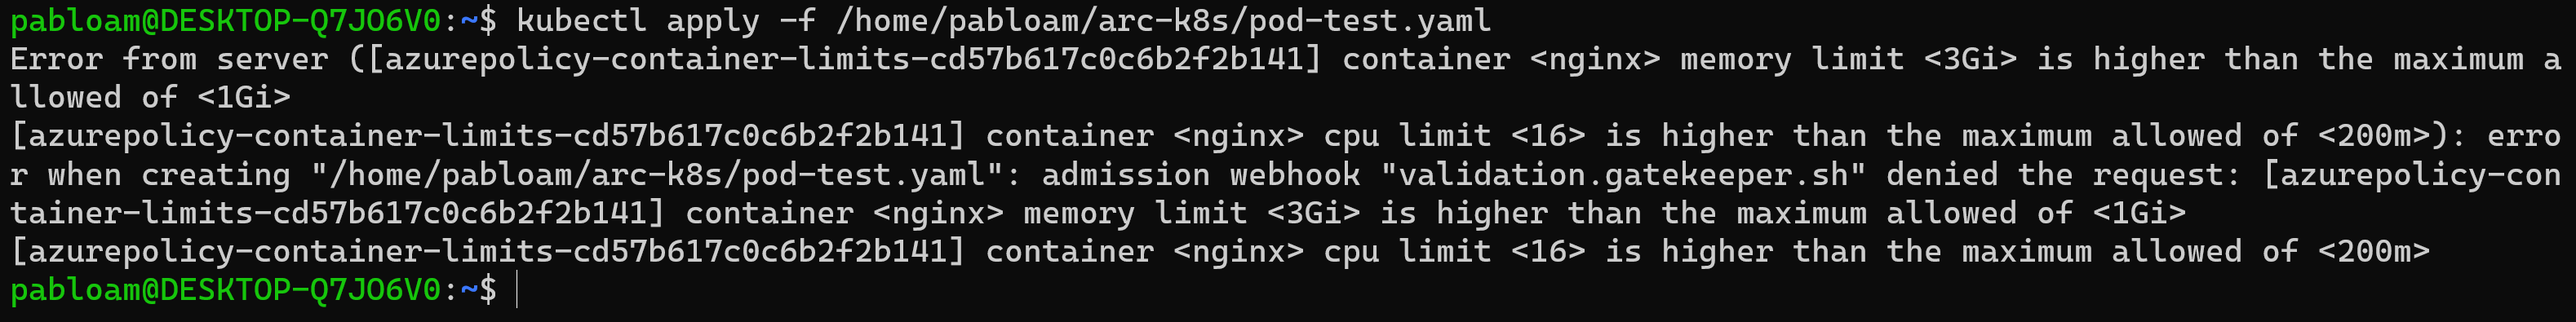
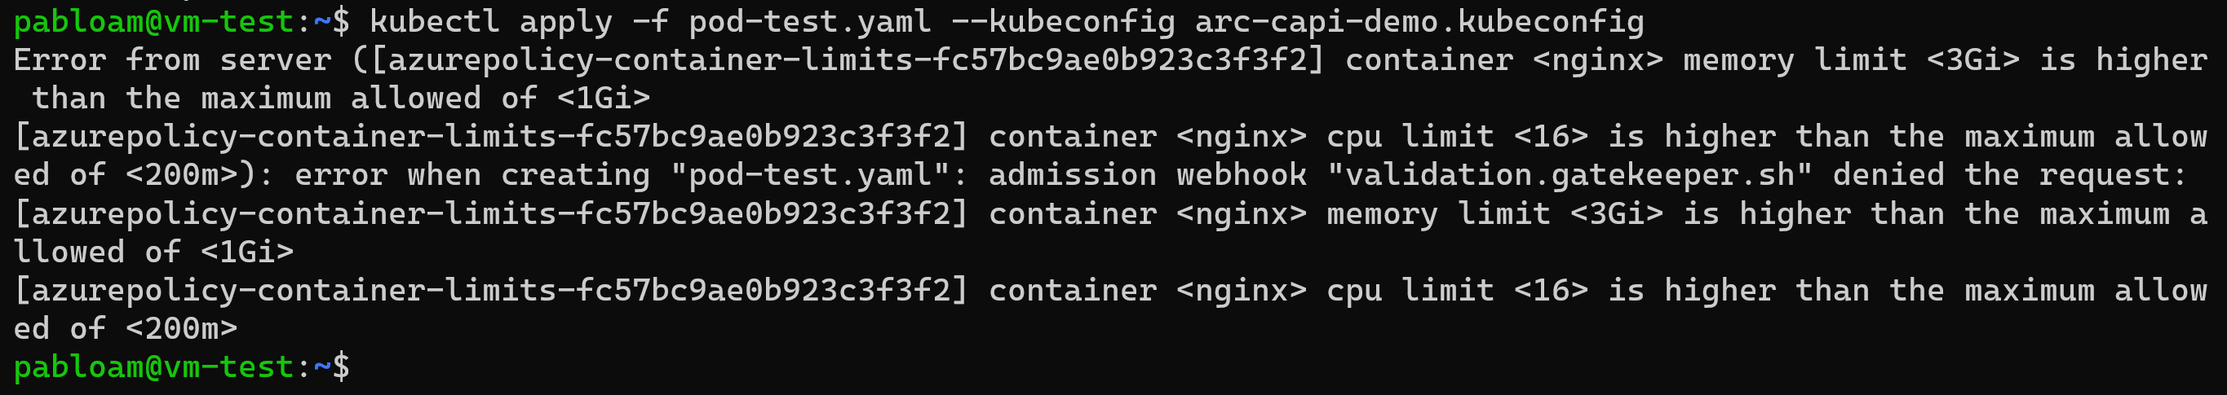
Update index

Changed region(s): [[0.0, 0.0304, 0.9963, 0.9722]]

diff --git a/docs/azure_arc_jumpstart/azure_arc_k8s/day2/multi_distributions/azure_policy/_index.md b/docs/azure_arc_jumpstart/azure_arc_k8s/day2/multi_distributions/azure_policy/_index.md
@@ -110,12 +110,13 @@ To create a new extension instance, we will use the _k8s-extension create_ comma
   - _`arcClusterName`_ - Azure Arc Cluster Name
   - _`k8sExtensionName`_ - Azure Policy extension name, should be azurepolicy
 
-    ![Screenshot parameter examples](./02.png)
+  &nbsp;
+  ![Screenshot parameter examples](./02.png)
 
 - After editing the variables, to run the script, navigate to the [script folder](https://github.com/microsoft/azure_arc/tree/main/azure_arc_k8s_jumpstart/multi_distributions/azure_policy) and run the command
 
   ```shell  
-  . ./azure_policy.sh
+  sudo chmod +x azure_monitor_alerts.sh && . ./azure_policy.sh
   ```
 
     > **NOTE: The extra dot is due to the shell script having an _export_ function and needs to have the vars exported in the same shell session as the rest of the commands.**
@@ -136,7 +137,7 @@ To create a new extension instance, we will use the _k8s-extension create_ comma
   - The azure-policy pods are installed in the kube-system namespace:
 
     ```bash
-    kubectl get pods -n kube-system --kubeconfig <cluster-name>.kubeconfig | grep azure-policy
+    kubectl get pods -n kube-system --kubeconfig <kubeconfig> | grep azure-policy
     ```
 
     ![Screenshot extension pods on cluster](./04.png)
@@ -144,7 +145,7 @@ To create a new extension instance, we will use the _k8s-extension create_ comma
   - The gatekeeper pods are installed in the gatekeeper-system namespace:
 
     ```bash
-    kubectl get pods -n gatekeeper-system --kubeconfig <cluster-name>.kubeconfig
+    kubectl get pods -n gatekeeper-system --kubeconfig <kubeconfig>
     ```
 
     ![Screenshot extension pods on cluster](./05.png)
@@ -155,8 +156,11 @@ To create a new extension instance, we will use the _k8s-extension create_ comma
 
 ## Test Azure Policy
 
+> **IMPORTANT NOTE: Please note that it may take up to 30 minutes for the Azure Policy to take effect.**
+
 - The Azure Policy we have assigned works as a [LimitRange](https://kubernetes.io/docs/concepts/policy/limit-range/), but we do not specify any namespace, so the Azure Policy will be applied on all namespaces. The limits specified in the Azure Policy are cpuLimit=200m and memoryLimit=1Gi, so to test it we need to create a pod with higher limits:
 
+  > **pod-test.yaml**
   ```yaml
   apiVersion: v1
   kind: Pod
@@ -175,9 +179,15 @@ To create a new extension instance, we will use the _k8s-extension create_ comma
           cpu: "16"
   ```
 
-- When we create the above pod, we get the following output:
+- Create the above file and run the following command to create the pod:
+
+  ```bash
+  kubectl apply -f pod-test.yaml --kubeconfig <kubeconfig>
+  ```
 
   ![Screenshot Azure Policy test](./07.png)
+
+  As you can see we cannot create the pod due to the Azure policy that was applied.
 
 - If there were pods that exceeded the limit before applying the Azure Policy, they will not be removed, but we can see which ones do not comply in the Azure Policy service in the Compliance tab, select the non-compliance event
 
